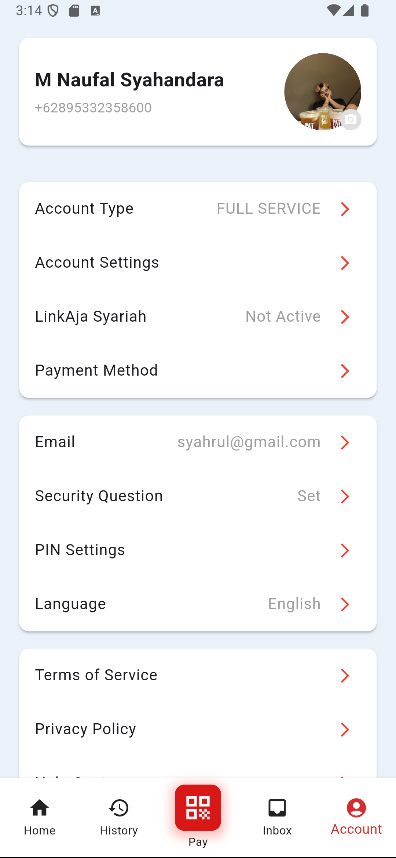
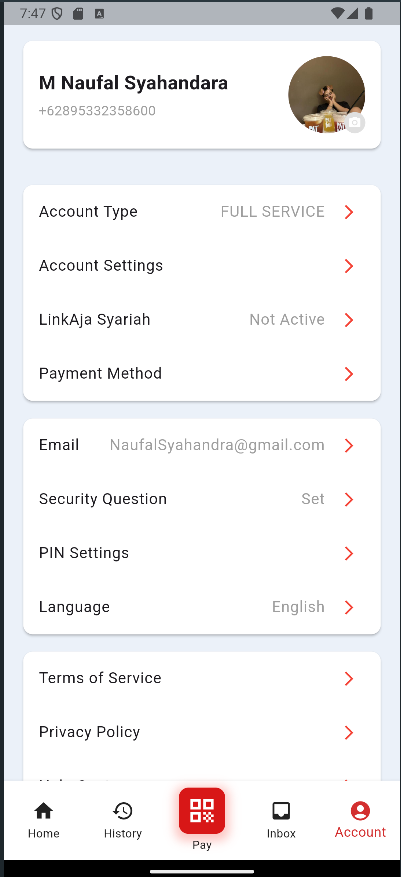
feat: update

diff --git a/UTS/layout_linkaja/lib/screens/account/account.dart b/UTS/layout_linkaja/lib/screens/account/account.dart
@@ -29,7 +29,7 @@ class _AccountPagesState extends State<AccountPage> {
             ]),
             const SizedBox(height: 10),
             _buildInfoCard([
-              _buildProfileOption('Email', 'syahrul@gmail.com'),
+              _buildProfileOption('Email', 'NaufalSyahandra@gmail.com'),
               _buildProfileOption('Security Question', 'Set'),
               _buildProfileOption('PIN Settings', ''),
               _buildProfileOption('Language', 'English'),
